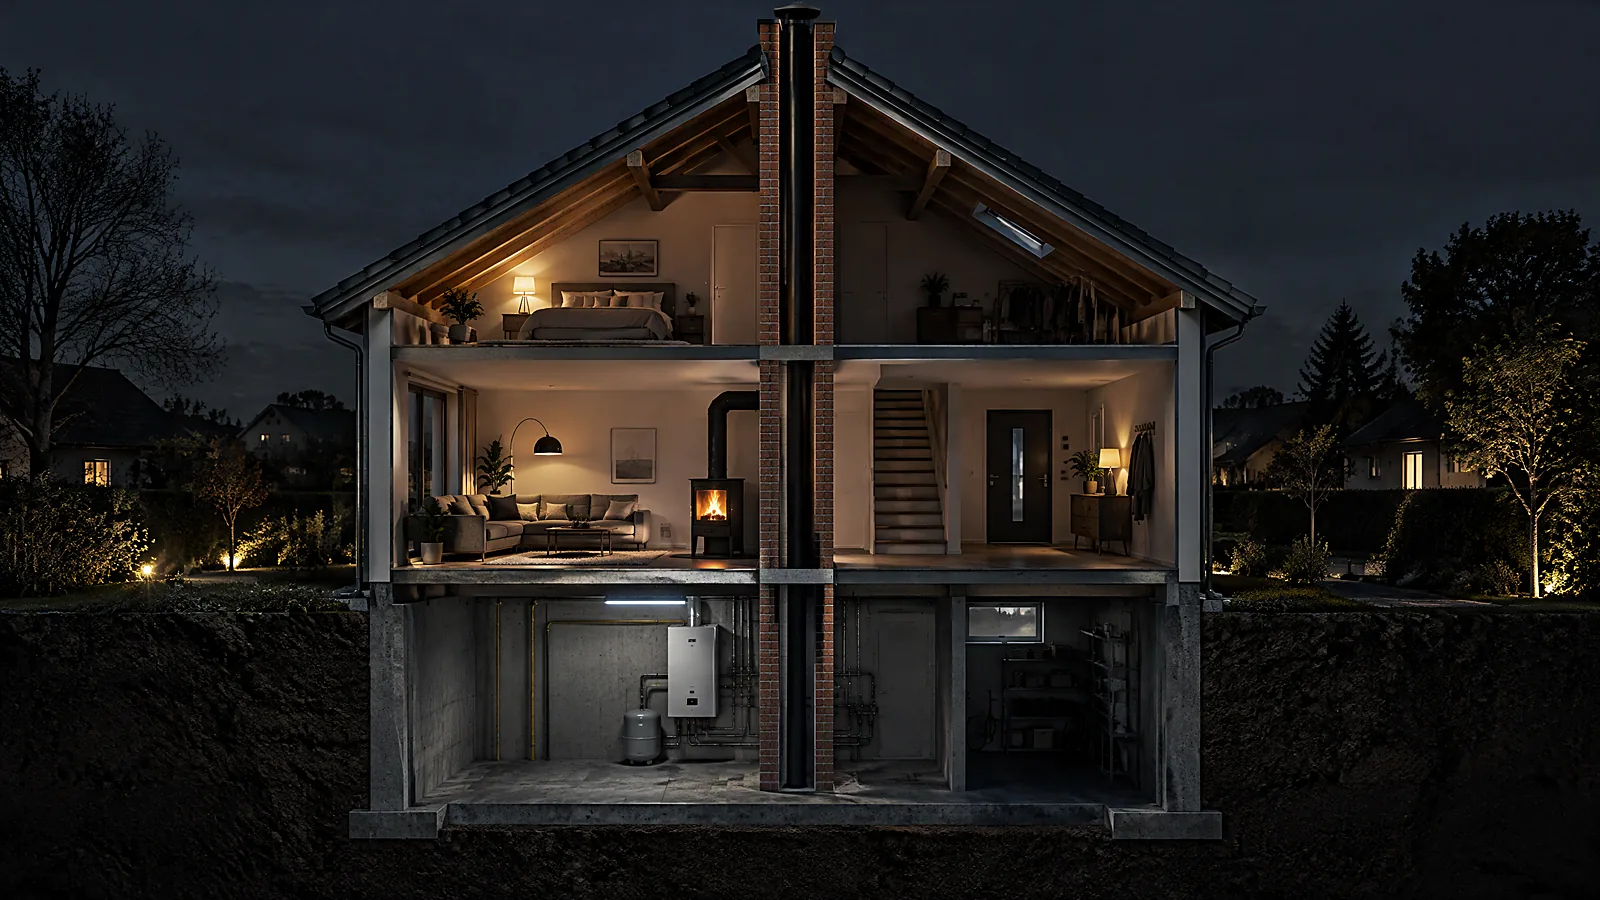
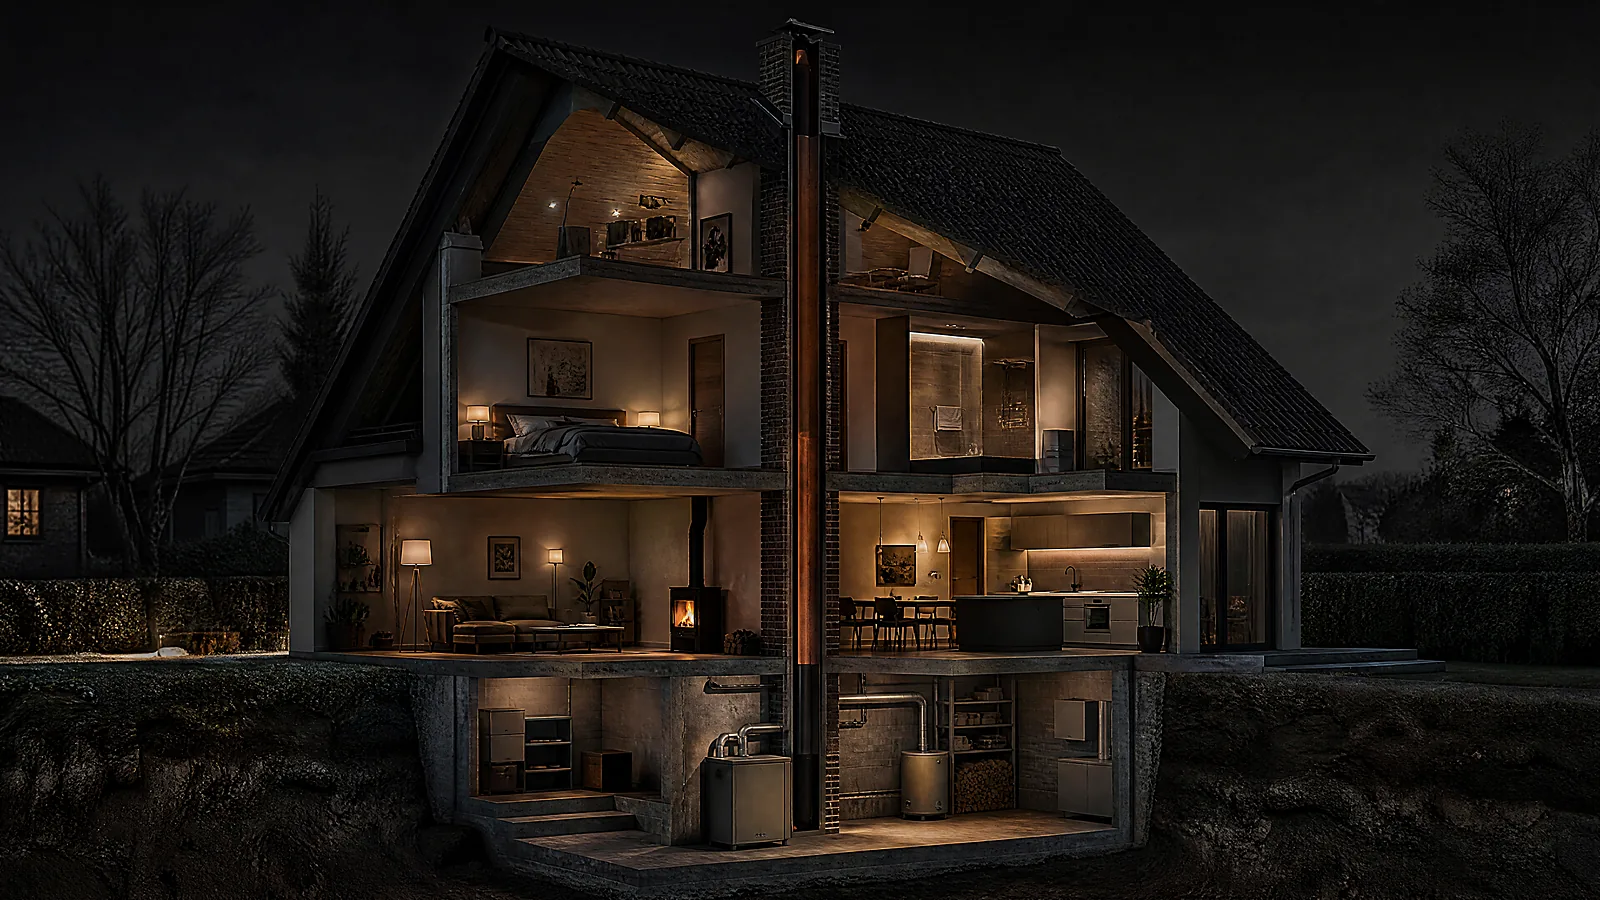
Hausschnitt 1B (Eugens Wahl), 4K-Auslieferung

diff --git a/site/main.js b/site/main.js
@@ -17,9 +17,9 @@ if (farbe[0]) { const h = farbe[0]; document.documentElement.style.setProperty('
 if (farbe[1]) document.documentElement.style.setProperty('--bg', '#' + farbe[1]);
 
 /* ---------- Hausschnitt: Lage des Schornsteins im Bild (0..1) ---------- */
-/* Werte für Hausschnitt H-1A (frontal, Schornstein mittig) */
-const HOUSE = window.KW_HOUSE || { img: 'h-1', th: 'h-1t', w: 2560, h: 1440, x: 0.496, top: 0.02, bottom: 0.87,
-  floors: { DACH: 0.07, DACHBODEN: 0.31, WOHNEN: 0.53, TECHNIK: 0.72, KELLER: 0.84 } };
+/* Werte für Hausschnitt H-1B (3/4-Ansicht, von Eugen gewählt) */
+const HOUSE = window.KW_HOUSE || { img: 'h-1', th: 'h-1t', w: 3584, h: 2016, x: 0.503, top: 0.045, bottom: 0.92,
+  floors: { DACH: 0.1, DACHBODEN: 0.24, WOHNEN: 0.62, TECHNIK: 0.8, KELLER: 0.88 } };
 const FLOORS = ['DACH', 'DACHBODEN', 'WOHNEN', 'TECHNIK', 'KELLER'];
 const LABEL = { DACH: 'Dach', DACHBODEN: 'Dachboden', WOHNEN: 'Wohnen', TECHNIK: 'Technik', KELLER: 'Keller' };
 const RING = { 'h-5': { x: 0.74, y: 0.3, w: 0.2 } };
@@ -28,7 +28,7 @@ const POS = { 'h-4': '24% 50%', 'h-5': '72% 50%', 'h-7': '30% 50%' };
 const cutImg = $('#cutImg'), cutTh = $('#cutTh'), cutZ = $('#cutZ');
 const houseOK = has('img', HOUSE.img);
 const SIZES = '(max-aspect-ratio: 16/9) 177.8vh, 100vw';
-const srcset = n => `assets/img/${n}-m.webp 1600w, assets/img/${n}.webp 2560w`;
+const srcset = n => `assets/img/${n}-m.webp 1600w, assets/img/${n}.webp 3584w`;
 if (houseOK) { cutImg.sizes = SIZES; cutImg.srcset = srcset(HOUSE.img); cutImg.src = `assets/img/${HOUSE.img}.webp`; }
 else { cutImg.setAttribute('src', ''); document.body.classList.add('nohouse'); $('#trace').style.display = 'none'; }
 if (has('img', HOUSE.th)) { cutTh.sizes = SIZES; cutTh.srcset = srcset(HOUSE.th); cutTh.src = `assets/img/${HOUSE.th}.webp`; } else cutTh.setAttribute('src', '');

diff --git a/tools/webp.py b/tools/webp.py
@@ -3,7 +3,7 @@ import sys
 from PIL import Image, ImageFilter
 src, dst = sys.argv[1], sys.argv[2]
 im = Image.open(src).convert("RGB"); w0 = im.width
-for w, suf, q in ((min(2560, w0), "", 86), (1600, "-m", 82)):
+for w, suf, q in ((min(3840, w0), "", 84), (1600, "-m", 82)):
     out = im if w == w0 else im.resize((w, round(im.height * w / w0)), Image.LANCZOS)
     out = out.filter(ImageFilter.UnsharpMask(radius=1.6, percent=70, threshold=2))
     out.save(f"{dst}{suf}.webp", "WEBP", quality=q, method=6)

diff --git a/CLAUDE.md b/CLAUDE.md
@@ -39,7 +39,7 @@ gh (Engelstraenen), sjinn in Chrome eingeloggt (Unlimited).
 - Deploy: `zsh tools/deploy.sh "Text"` (gh-pages, legacy)
 
 ## 8. Offene Fragen
-- Wahl Hausschnitt H-1A/B/C; Firmenname ohne -WERK.
+- Firmenname ohne -WERK.
 
 ## 9. Entschieden
 - 23.11.2026: Name KEHRWERK (Annahme), 3 Storyboard-Varianten erzeugt (Prompts konzepte/prompts.md).
@@ -55,6 +55,7 @@ gh (Engelstraenen), sjinn in Chrome eingeloggt (Unlimited).
 - 24.11.2026: Eugen: erst „Haus im Schnitt“ bauen; sieht es nicht gut aus → zurück zur Schachtkamera-Fahrt. Diese liegt fertig als Ausweich in `site-schacht/` (Code-Stand Commit 3a5a839 + Fixes; Assets aus site/assets, Videos per tools/assets.sh).
 - 24.11.2026: Dreamina-Bildkarten aktualisieren den Status nicht immer live (KS-1B stand 20 min auf 99 %, nach Neuladen fertig) → bei Stillstand >5 min Seite neu laden, Skript neu einspielen (`KSQ.run(0)`, erkennt Fertiges selbst).
 - 24.11.2026 (Masterfile V2.65): Alle Seiten-Bilder/-Videos lokal nachschärfen: tools/webp.py UnsharpMask(1.6, 70, 2), Filme ffmpeg unsharp=5:5:0.7 (tools/assets.sh). Gemessen h-1 Laplace 369→860, Ofen-Film 42→208, keine Halos.
+- 24.11.2026 (23:10): Eugen wählt Hausschnitt 1B (3/4-Ansicht, frames/H-1B.png → H-1.png). Schornstein x 0,503; Ebenen Dach 0,10 · Dachboden 0,24 · Wohnen 0,62 · Technik 0,80 · Keller 0,88. Wärmebild H-1T = Edit von H-1B.
 - Offen: Firmenname ohne „-WERK“ (Masterfile V2.53), Vorschläge bei Lieferung.
 
 ## 10. Ablage

diff --git a/verlauf/2026-11-24.md b/verlauf/2026-11-24.md
@@ -31,3 +31,4 @@
 - 22:36 KS-1B war fertig (Anzeige hing). H-1A abgeschickt.
 - 22:48 H-1A (Dreamina) fertig, gezeigt, als h-1 eingebaut (Schornstein x 0,496). Koordination: Dreamina ab jetzt für WURZELWERK, KEHRWERK-Bilder auf sjinn GPT Image 2 4K Unlimited (max. 2 eigene gleichzeitig, tools/ks_sjinn.js + sj_jobs.json). H-1B, H-1C laufen.
 - 23:05 Nachschärfen eingebaut (V2.65), Seite veröffentlicht (Stand: Hausschnitt H-1A, Stationsfotos folgen).
+- 23:12 Eugen wählt Hausschnitt 1B → eingebaut (3584 px, nachgeschärft), veröffentlicht. sjinn: H-2, H-4 laufen; danach H-7, H-5, H-3, dann Wärmebild H-1T (Edit von 1B).
